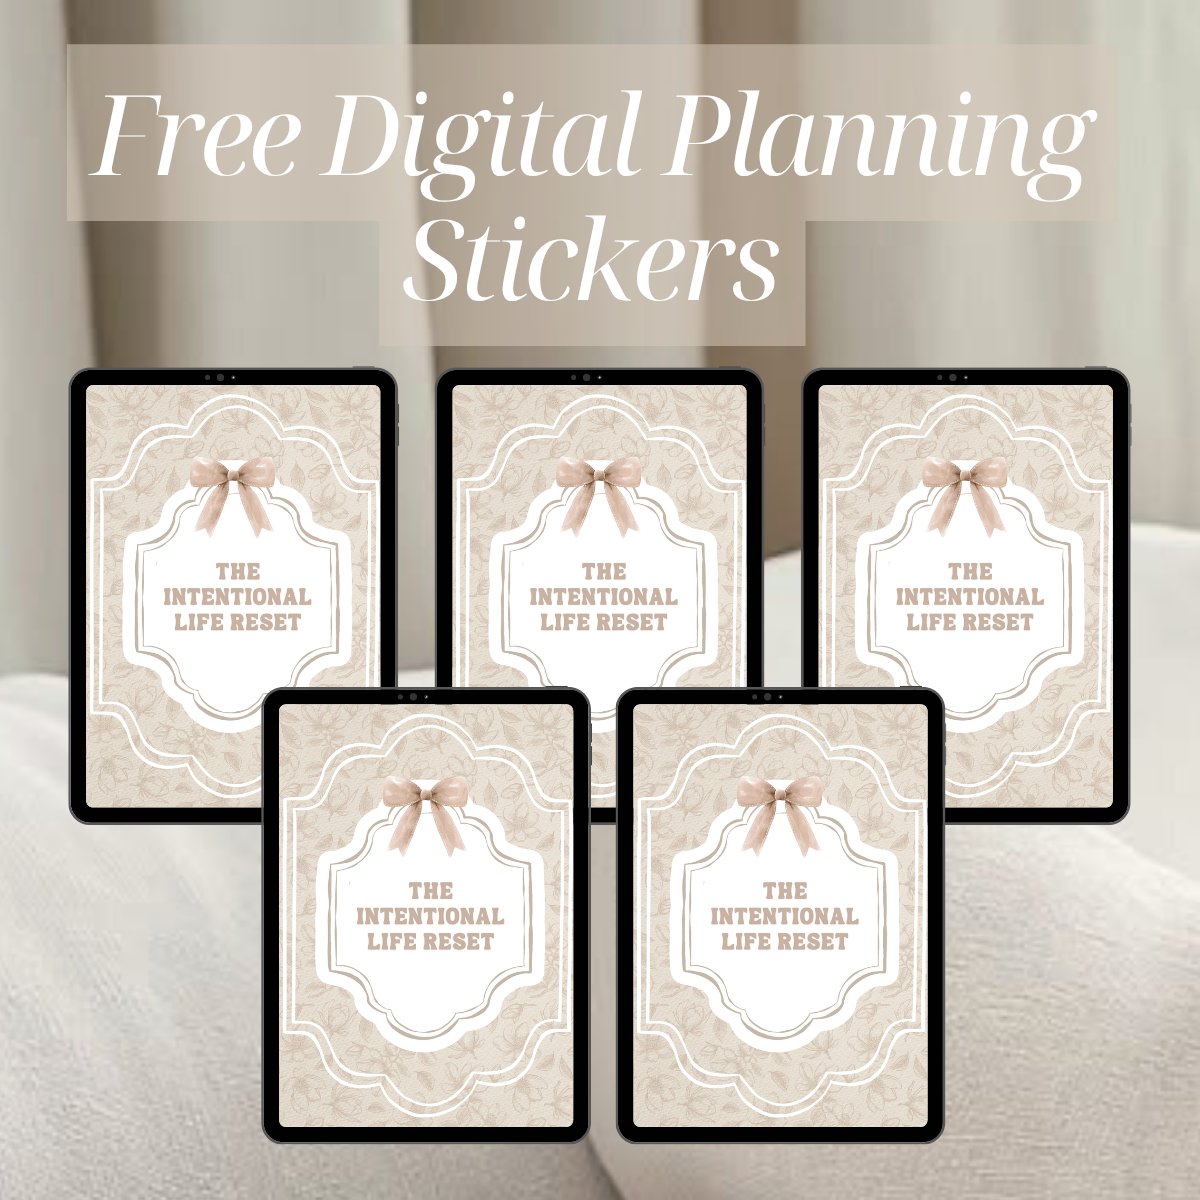
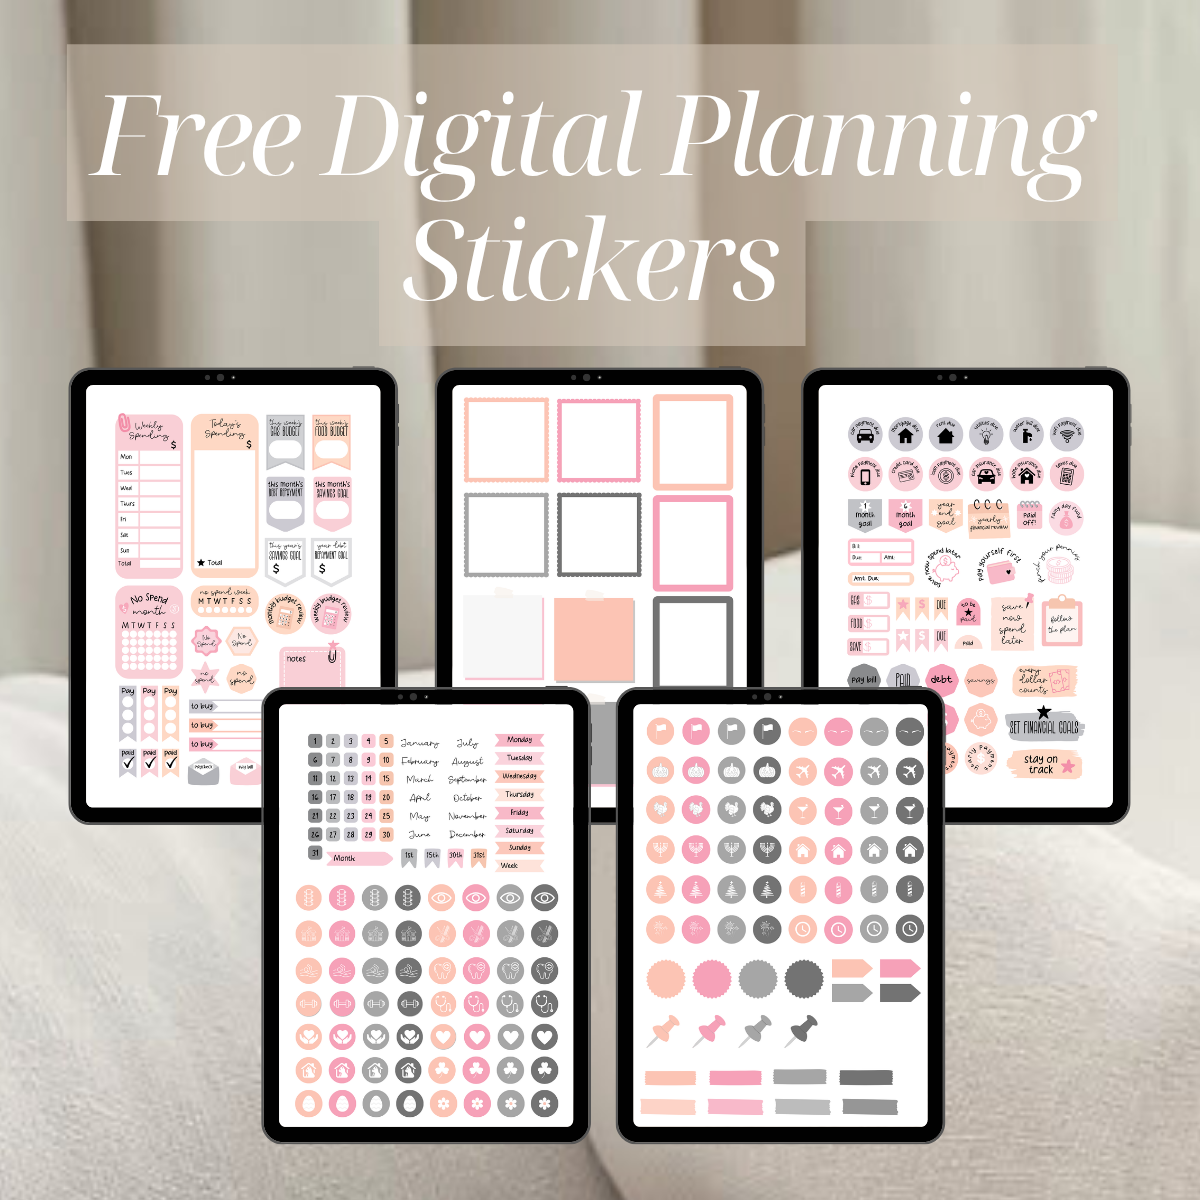
Work With Me: update CTA copy + gitignore .mcp.json
- "Get the full pricing breakdown" → "Get your personalized quote"
- Updated supporting copy to match custom quote flow
- Added .mcp.json to .gitignore to keep API key out of repo

Changed region(s): [[0.0617, 0.3083, 0.925, 0.9558]]

diff --git a/book.html b/book.html
@@ -283,8 +283,8 @@
         <section id="inquiry-form" class="bg-[#1a1a1a] py-20 px-6 text-center">
             <div class="max-w-5xl mx-auto space-y-6">
                 <p class="ui-label text-[#E2C0B9]">Ready to Begin</p>
-                <h2 class="display-italic text-4xl md:text-5xl leading-[1.2] text-white">Get the full pricing breakdown.</h2>
-                <p class="text-sm text-white/50 font-light max-w-md mx-auto">Fill out and I'll send you a complete pricing PDF with next steps within 48 hours. No commitment required to get started.</p>
+                <h2 class="display-italic text-4xl md:text-5xl leading-[1.2] text-white">Get your personalized quote.</h2>
+                <p class="text-sm text-white/50 font-light max-w-md mx-auto">Tell me about your business and I'll follow up within 48 hours with a custom quote scoped to what you actually need. No commitment required.</p>
                 <div class="pt-2">
                     <button onclick="openInquiryForm()" class="inline-block bg-[#E2C0B9] text-black px-16 py-5 text-[10px] uppercase tracking-[0.35em] font-bold hover:bg-white transition-all duration-300">
                         Start Your Inquiry